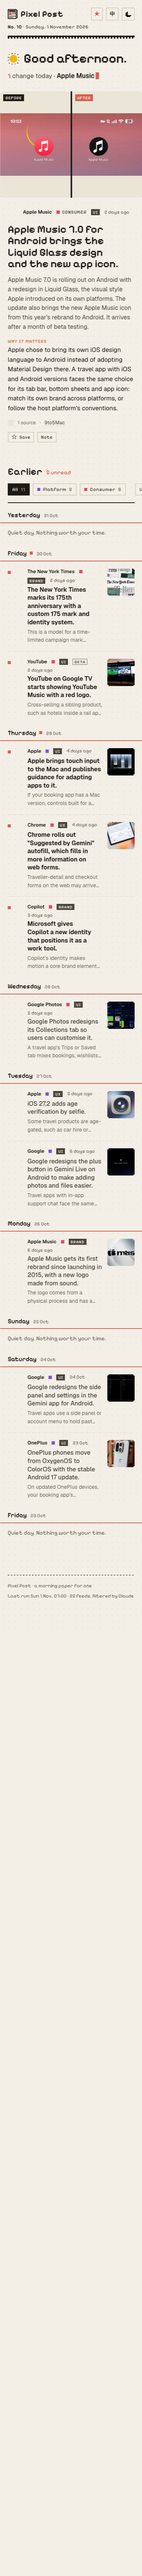
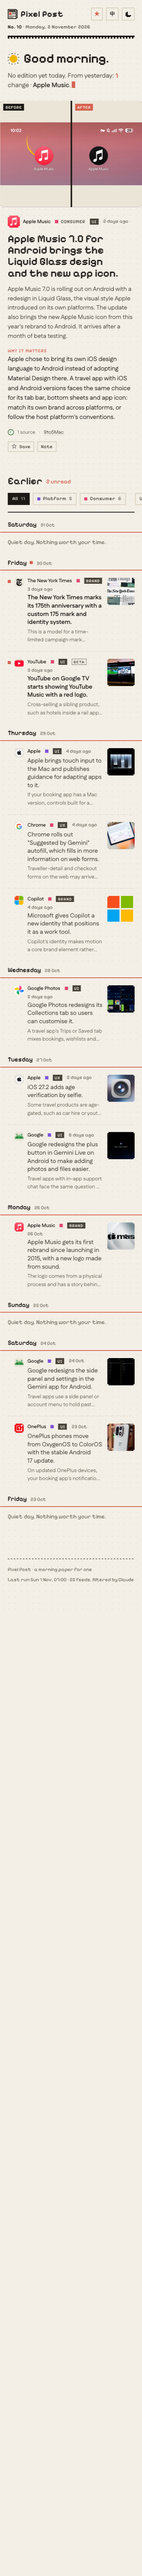
Body font: Fustat

Changed region(s): [[0.0, 0.0, 1.0, 0.6235], [0.7333, 0.3429, 0.968, 0.5924], [0.9973, 0.1871, 1.0, 0.2182]]

diff --git a/site/styles.css b/site/styles.css
@@ -1,5 +1,5 @@
 /* Pixel Post: a morning paper for one, set in pixels.
-   Pixelify Sans for display, Geist for reading. Muted paper, one coral-red accent, one dot colour per category. */
+   Pixelify Sans for display, Fustat for reading. Muted paper, one coral-red accent, one dot colour per category. */
 
 :root {
   --paper: #f3efe6;
@@ -18,10 +18,10 @@
   --consumer: #e0446e;
   --shadow: #1d1a16;
 
-  /* Pixelify Sans and Geist have no Chinese characters; Chinese text falls back to the system's Chinese font. */
+  /* Pixelify Sans and Fustat have no Chinese characters; Chinese text falls back to the system's Chinese font. */
   --cjk: 'PingFang SC', 'Hiragino Sans GB', 'Noto Sans SC', 'Microsoft YaHei', sans-serif;
   --display: 'Pixelify Sans', var(--cjk), ui-monospace, 'SF Mono', Menlo, monospace;
-  --body: 'Geist', ui-sans-serif, system-ui, -apple-system, 'Segoe UI', var(--cjk), sans-serif;
+  --body: 'Fustat', ui-sans-serif, system-ui, -apple-system, 'Segoe UI', var(--cjk), sans-serif;
   --px: 4px; /* one "pixel" of the pixel art */
   --page: 1180px;
   --gutter: clamp(20px, 5vw, 48px);

diff --git a/site/index.html b/site/index.html
@@ -9,7 +9,7 @@
     <link rel="icon" href="favicon.svg" type="image/svg+xml" />
     <link rel="preconnect" href="https://fonts.googleapis.com" />
     <link rel="preconnect" href="https://fonts.gstatic.com" crossorigin />
-    <link href="https://fonts.googleapis.com/css2?family=Pixelify+Sans:wght@400..700&family=Geist:wght@400..700&display=swap" rel="stylesheet" />
+    <link href="https://fonts.googleapis.com/css2?family=Pixelify+Sans:wght@400..700&family=Fustat:wght@400..800&display=swap" rel="stylesheet" />
     <link rel="stylesheet" href="styles.css" />
     <script>
       // Set the theme and language before first paint so neither flashes.

diff --git a/README.md b/README.md
@@ -169,4 +169,4 @@ src/compare.ts        before/after pictures
 
 **Saved.** Every item has a **star** and a **note**: type it, then **Save note** (inside the box) or Cmd+Enter; the box closes and the note shows under the item, with **Edit note** to change it. The **Saved** button (top right) lists the week's starred items with their notes and a **Remove** button, a week at a time. Stars and notes are kept in your browser only, so they don't follow you to another device. Share links sent before November 2026 still open, read-only.
 
-English by default, with a **中 / EN** switch (top right) that changes everything on the page, including dates and each item's write-up, and is remembered in your browser. Items written before the Chinese write-ups were added (before 30 Oct 2026) stay in English. Light by default, with a dark mode toggle next to it. Each item has a **UI**, **UX** or **Brand** label, and the archive can be filtered by it. Pixelify Sans for headlines, Geist for reading. One coral-red accent (#D6614F); each category has its own square dot (OTA blue, rail green, platform violet, consumer pink). The timeline fills with the accent as you scroll. The logo is a pixel newspaper whose lines print in. Cards, dates and archive rows print in as they scroll into view, and images arrive blocky and sharpen in a few steps; items without an image show their app icon as a pixel mosaic. Unread dots mark items collected since your previous visit (kept in your browser's localStorage) and clear when you open an item. Motion is switched off when your system asks for reduced motion.
+English by default, with a **中 / EN** switch (top right) that changes everything on the page, including dates and each item's write-up, and is remembered in your browser. Items written before the Chinese write-ups were added (before 30 Oct 2026) stay in English. Light by default, with a dark mode toggle next to it. Each item has a **UI**, **UX** or **Brand** label, and the archive can be filtered by it. Pixelify Sans for headlines, Fustat for reading. One coral-red accent (#D6614F); each category has its own square dot (OTA blue, rail green, platform violet, consumer pink). The timeline fills with the accent as you scroll. The logo is a pixel newspaper whose lines print in. Cards, dates and archive rows print in as they scroll into view, and images arrive blocky and sharpen in a few steps; items without an image show their app icon as a pixel mosaic. Unread dots mark items collected since your previous visit (kept in your browser's localStorage) and clear when you open an item. Motion is switched off when your system asks for reduced motion.
